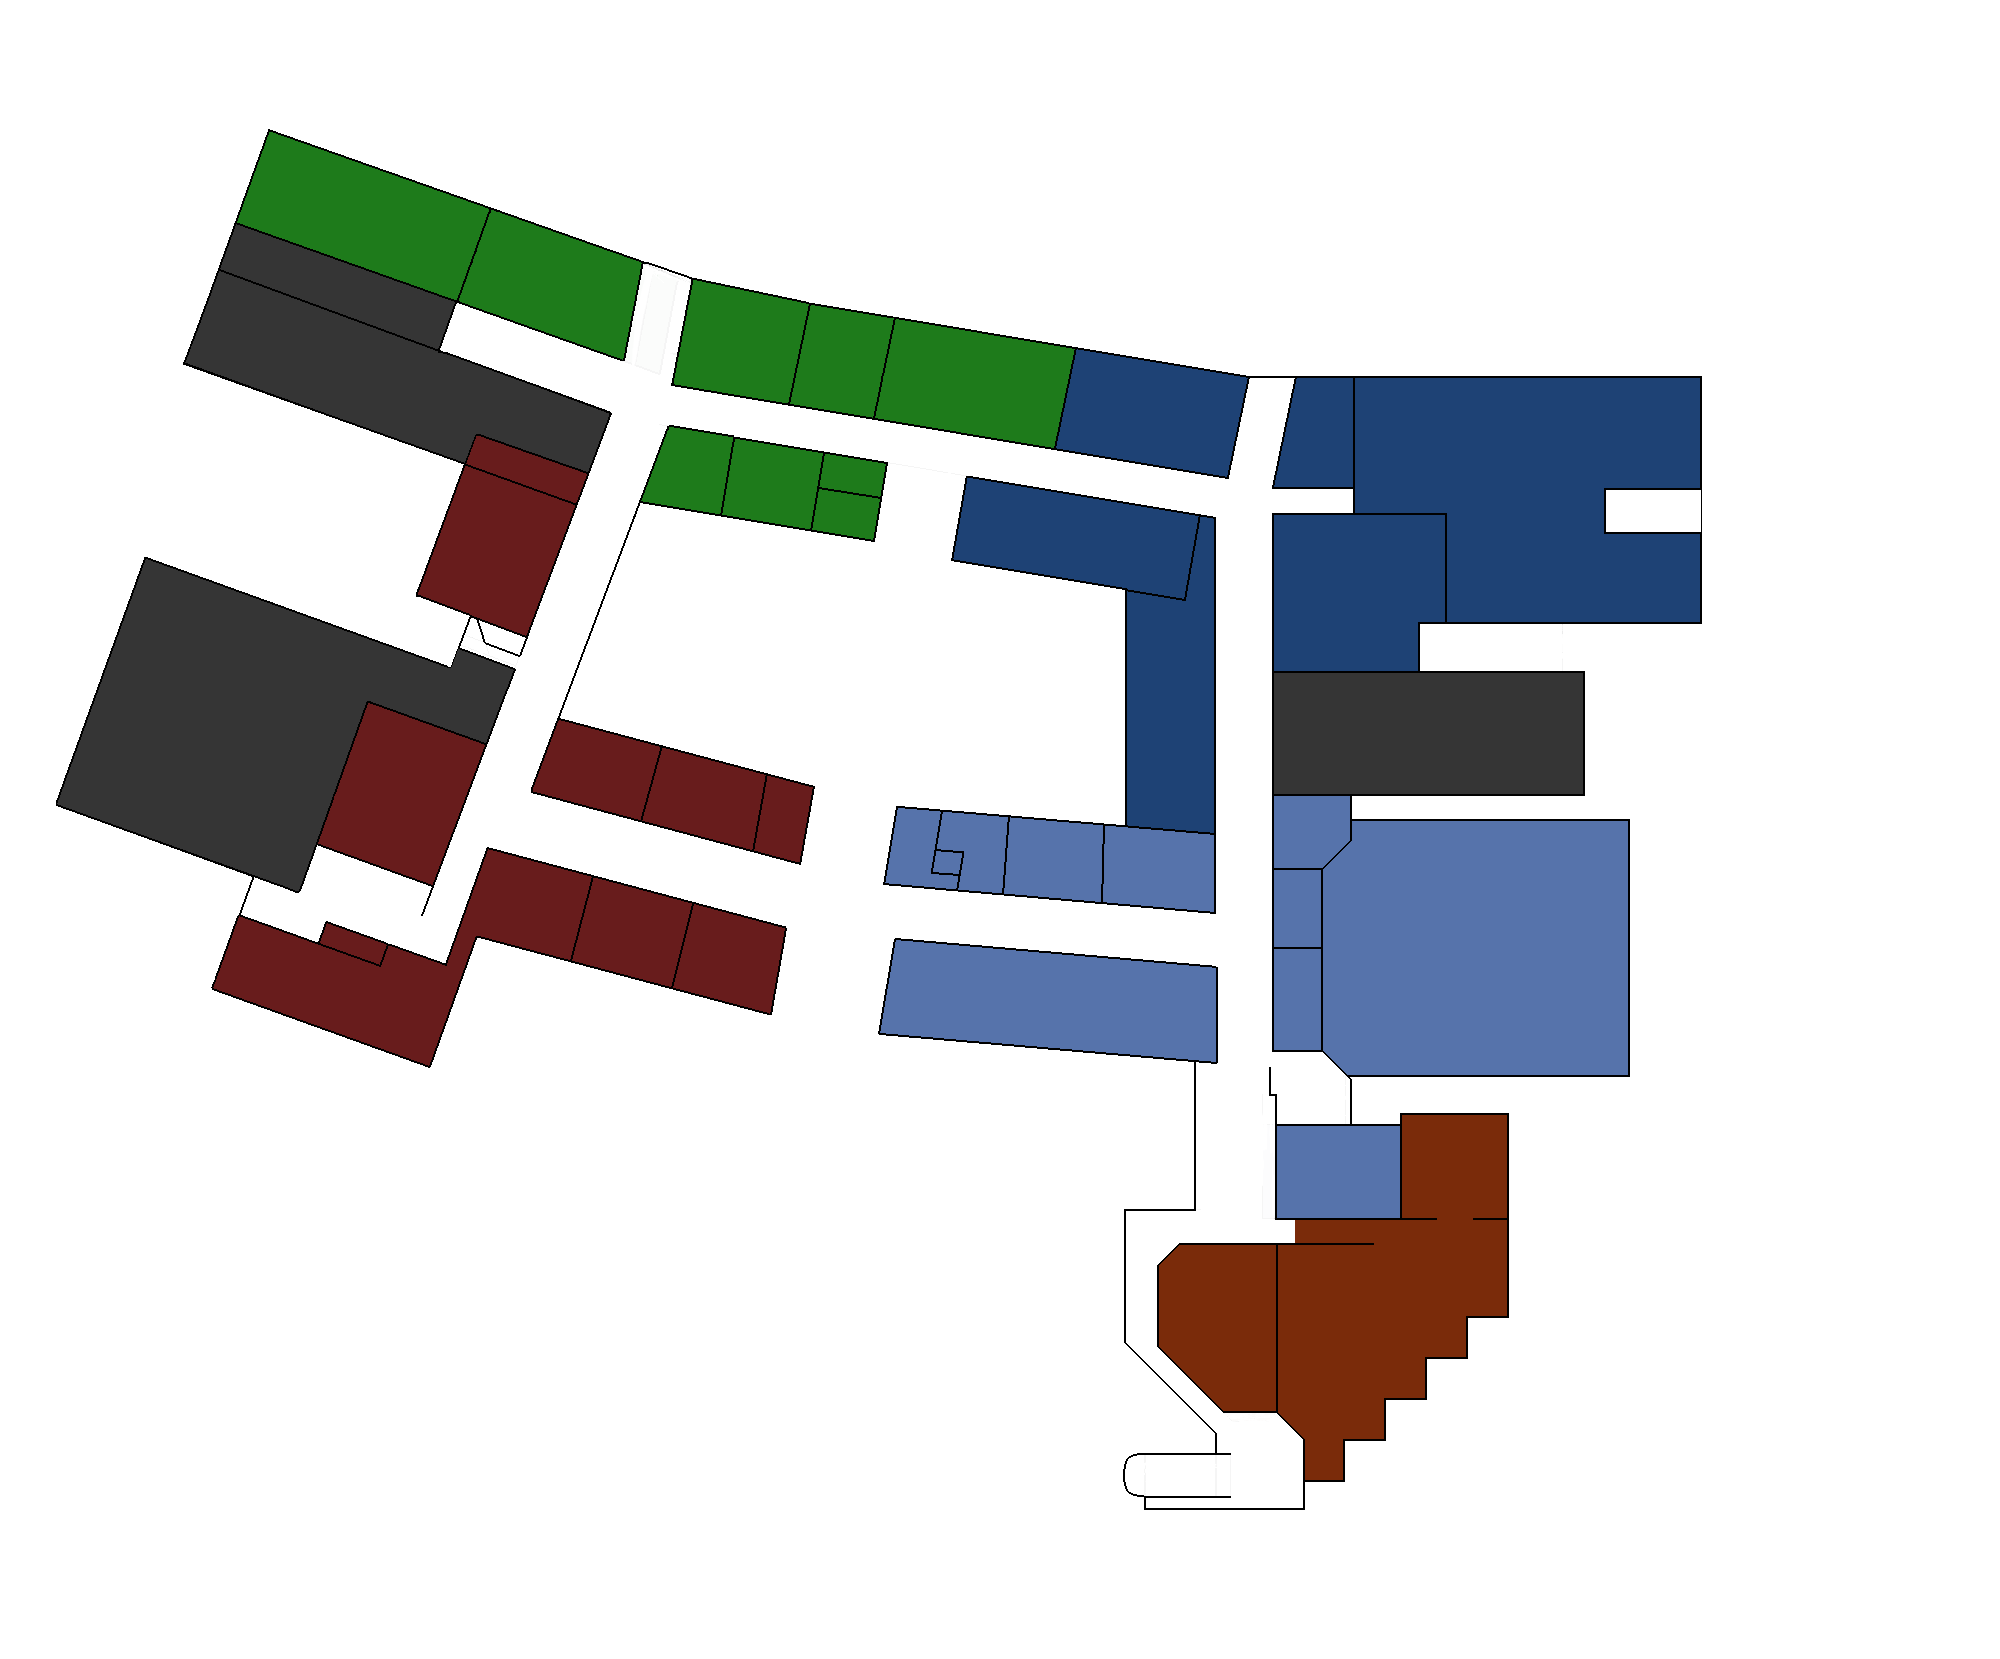
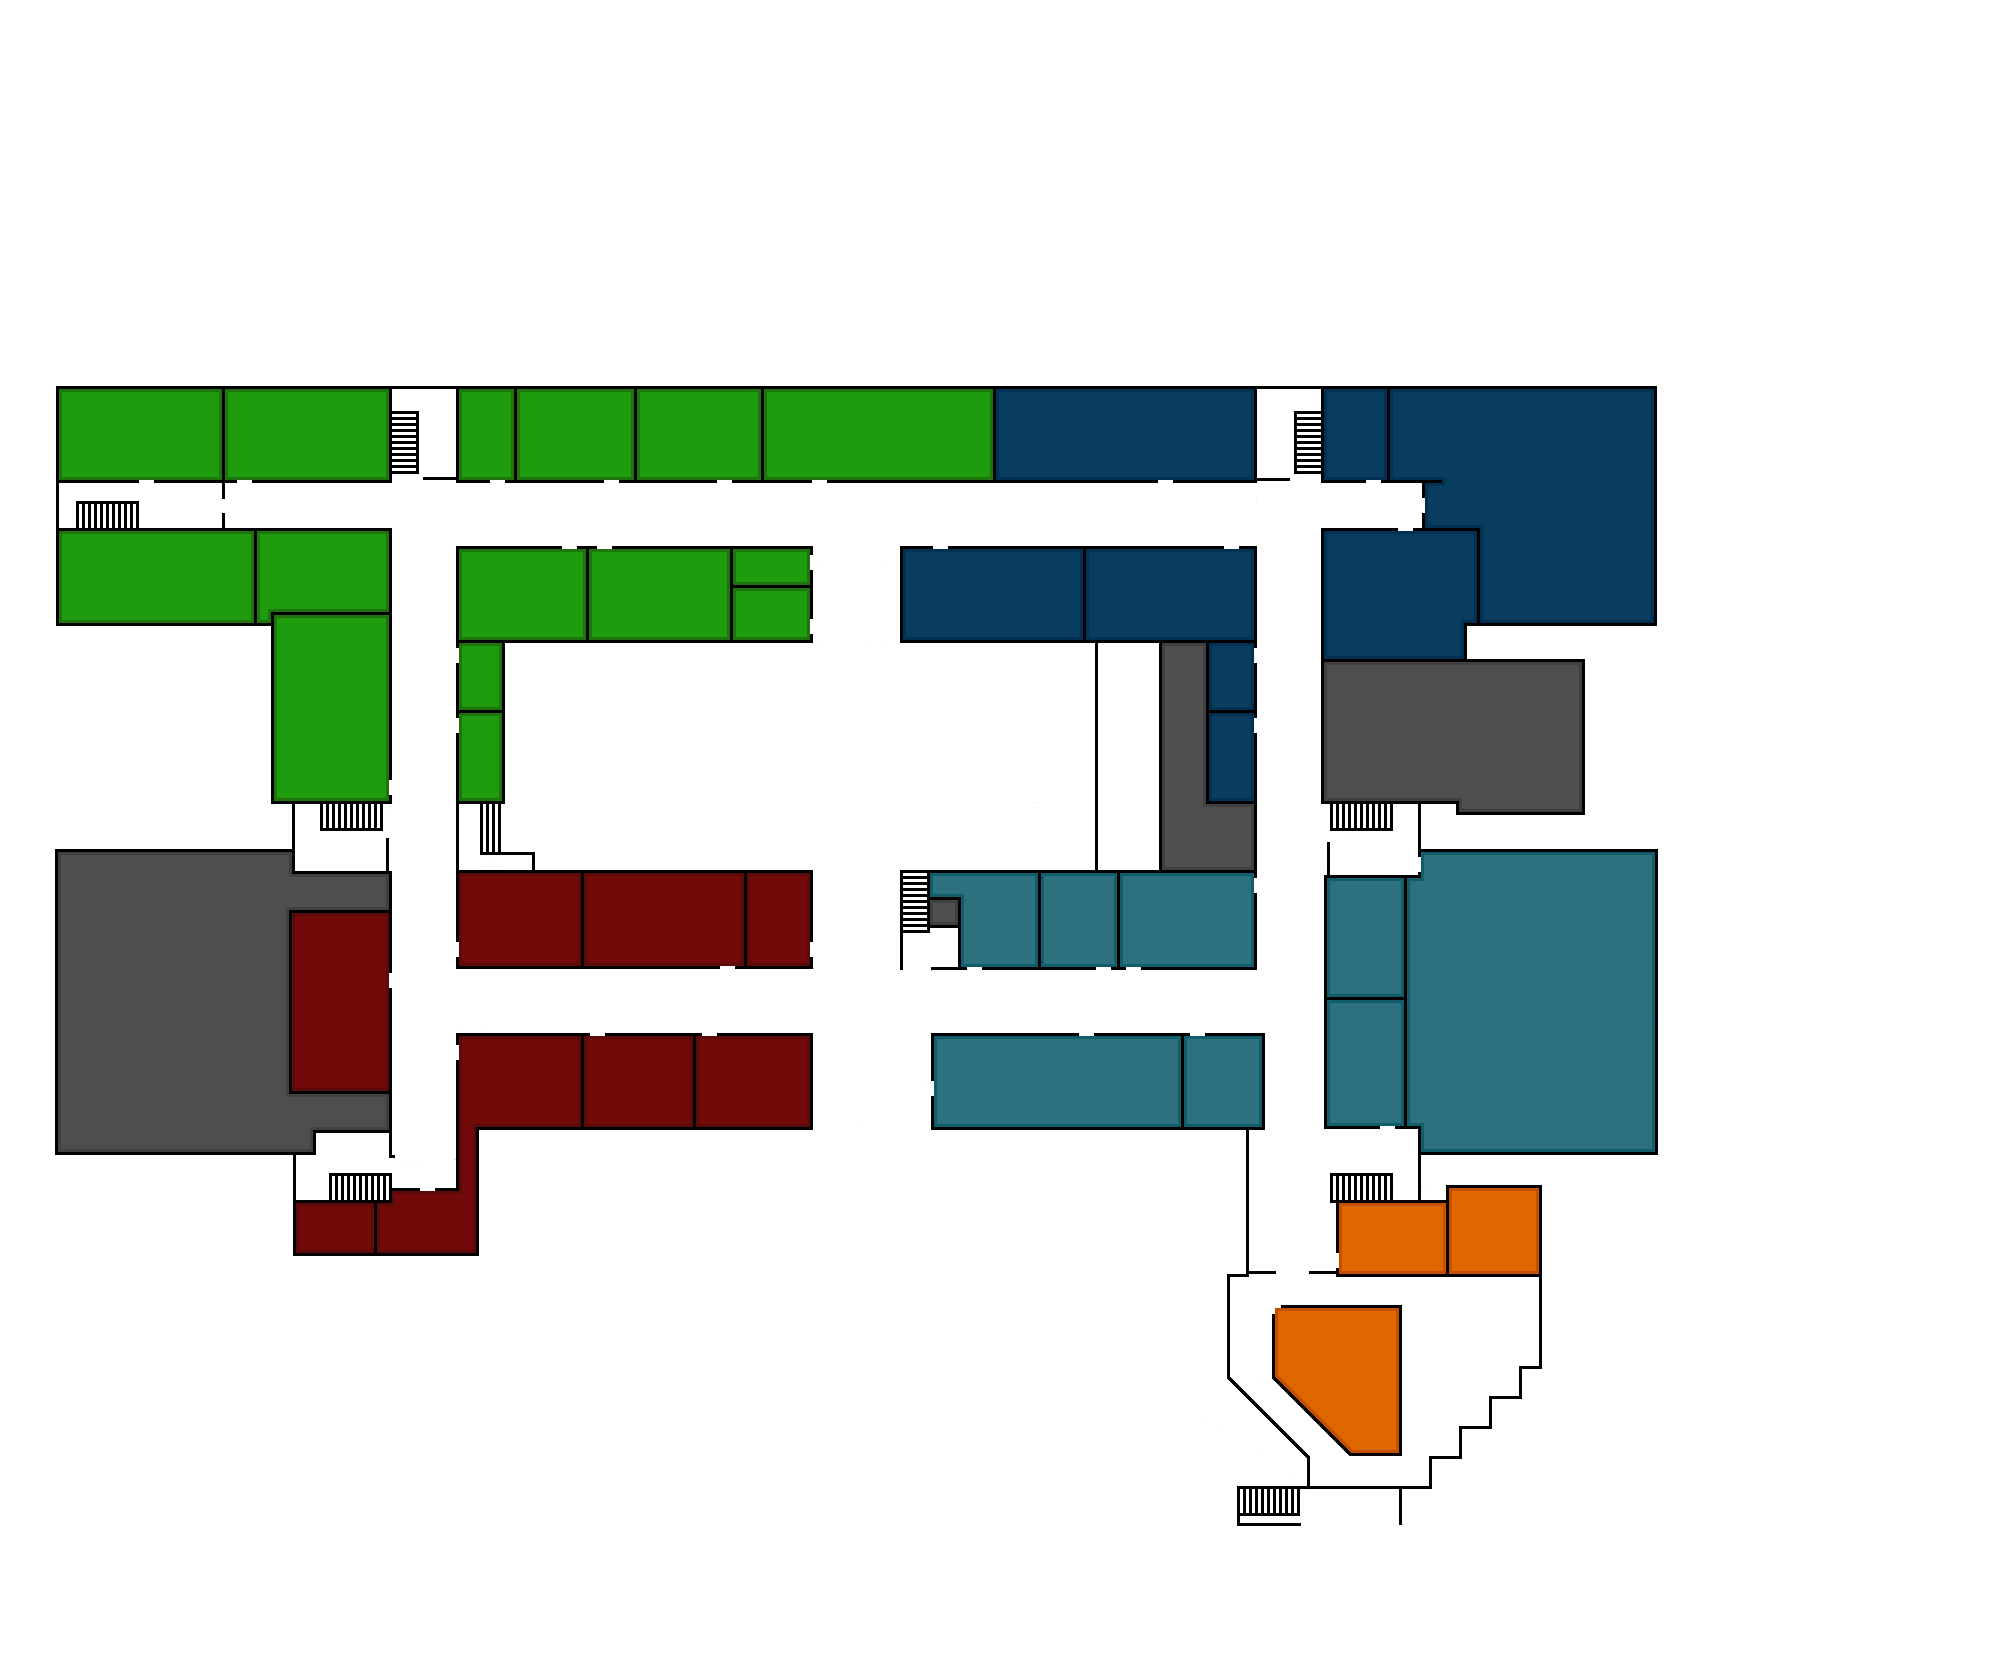
Updated 1st Floor Main map

diff --git a/Backend/Node_Config/Dev/nodes.py b/Backend/Node_Config/Dev/nodes.py
@@ -8,11 +8,11 @@ from Backend.Nodes.StairNode import StairNode
 from Backend.Nodes.StairwellNode import StairwellNode
 
 fc1 = CornerNode([], "1 Front Center 1st")
-fr1 = CornerNode([], "1 Front Right 1st", (1241, 940))
-fl1 = CornerNode([], "1 Front Left 1st", (497, 808))
+fr1 = CornerNode([], "1 Front Right 1st", (1288, 1001))
+fl1 = CornerNode([], "1 Front Left 1st", (422, 1001))
 bc1 = CornerNode([], "1 Back Center 1st")
-br1 = CornerNode([], "1 Back Right 1st", (1244, 498))
-bl1 = CornerNode([], "1 Back Left 1st", (643, 395))
+br1 = CornerNode([], "1 Back Right 1st", (1288, 512))
+bl1 = CornerNode([], "1 Back Left 1st", (422, 512))
 
 fc2 = CornerNode([], "2 Front Center 2nd")
 fr2 = CornerNode([], "2 Front Right 2nd", (1244, 938))
@@ -65,34 +65,34 @@ amt3 = CornerNode([], "3 Arts Building Middle Top 3rd")
 the_void = CornerNode([], "The endless void of nothingness and despair. "
                           "Nothing can enter, nothing can exit. Pure emptiness")
 
-stair1_f1 = StairNode([], "n", "1 Stair 1 1st Floor", (907, 886))
+stair1_f1 = StairNode([], "n", "1 Stair 1 1st Floor", (916, 968))
 stair1_f2 = StairNode([], "n", "2 Stair 1 2nd Floor", (907, 886))
 stair1_f3 = StairNode([], "n", "3 Stair 1 3rd Floor", (950, 886))
 stair1_f4 = StairNode([], "n", "4 Stair 1 4th Floor", (950, 886))
 
-stair2_f1 = StairNode([], "w", "1 Stair 2 1st Floor", (418, 930))
+stair2_f1 = StairNode([], "w", "1 Stair 2 1st Floor", (394, 1171))
 stair2_f2 = StairNode([], "w", "2 Stair 2 2nd Floor", (418, 930))
 stair2_f3 = StairNode([], "w", "3 Stair 2 3rd Floor", (418, 930))
 stair2_f4 = StairNode([], "w", "4 Stair 2 4th Floor", (418, 930))
 stair2_f5 = StairNode([], "w", "5 Stair 2 5th Floor", (418, 930))
 
-stair3_f1 = StairNode([], "w", "1 Stair 3 1st Floor", (517, 662))
+stair3_f1 = StairNode([], "w", "1 Stair 3 1st Floor", (389, 821))
 stair3_f2 = StairNode([], "w", "2 Stair 3 2nd Floor", (527, 662))
 stair3_f3 = StairNode([], "w", "3 Stair 3 3rd Floor", (507, 694))
 stair3_f4 = StairNode([], "w", "4 Stair 3 4th Floor", (507, 694))
 
-stair5_f1 = StairNode([], "n", "1 Stair 5 1st Floor", (642, 312))
+stair5_f1 = StairNode([], "n", "1 Stair 5 1st Floor", (407, 477))
 stair5_f2 = StairNode([], "n", "2 Stair 5 2nd Floor", (651, 344))
 
-stair6_f1 = StairNode([], "n", "1 Stair 6 1st Floor", (1274, 422))
+stair6_f1 = StairNode([], "n", "1 Stair 6 1st Floor", (1305, 479))
 stair6_f2 = StairNode([], "n", "2 Stair 6 2nd Floor", (1255, 449))
 
-stair8_f1 = StairNode([], "e", "1 Stair 8 1st Floor", (1272, 848))
+stair8_f1 = StairNode([], "e", "1 Stair 8 1st Floor", (1324, 820))
 stair8_f2 = StairNode([], "e", "2 Stair 8 2nd Floor", (1272, 848))
 stair8_f3 = StairNode([], "e", "3 Stair 8 3rd Floor", (1273, 848))
 stair8_f4 = StairNode([], "e", "4 Stair 8 4th Floor", (1273, 848))
 
-stair9_f1 = StairNode([], "e", "1 Stair 9 1st Floor", (1272, 1058))
+stair9_f1 = StairNode([], "e", "1 Stair 9 1st Floor", (1324, 1186))
 stair9_f2 = StairNode([], "e", "2 Stair 9 2nd Floor", (1272, 1058))
 stair9_f3 = StairNode([], "e", "3 Stair 9 3rd Floor", (1272, 1058))
 stair9_f4 = StairNode([], "e", "4 Stair 9 4th Floor", (1272, 1058))
@@ -114,34 +114,33 @@ stair17_f2 = StairNode([], "e", "2 Stair 17 2nd Floor", (1451, 1325))
 stair17_f3 = StairNode([], "e", "3 Stair 17 3rd Floor")
 
 # 1st Floor
-room_1108 = DoorNode([], 0, the_void, 'e', (511, 857))
-room_1105 = DoorNode([], 0, the_void, 's', (676, 964))
-room_1102 = DoorNode([], 0, the_void, 's', (813, 964))
-room_1401 = DoorNode([], 0, the_void, 'n', (1136, 885))
-room_1402 = DoorNode([], 0, the_void, 's', (1280, 965))
-room_1409 = DoorNode([], 0, the_void, 'n', (1300, 888))
-room_1202 = DoorNode([], 0, the_void, 'w', (435, 676))
-
-room_1225 = DoorNode([], 0, the_void, 'n', (859, 416))
-room_1228 = DoorNode([], 0, the_void, 'n', (926, 428))
-room_1223 = DoorNode([], 0, the_void, 's', (719, 433))
-room_1311 = DoorNode([], 0, the_void, 's', (1060, 491))
-room_1312 = DoorNode([], 0, the_void, 'n', (1170, 468))
-room_1107 = DoorNode([], 0, the_void, 'e', (481, 864))
-room_1109 = DoorNode([], 0, the_void, 's', (426, 956))
-room_1106 = DoorNode([], 0, the_void, 'n', (743, 849))
-room_1410 = DoorNode([], 0, the_void, 'n', (1116, 903))
-room_1420 = DoorNode([], 0, the_void, 'e', (1276, 1210))
-room_1309 = DoorNode([], 0, the_void, 'n', (1326, 488))
-room_1224 = DoorNode([], 0, the_void, 's')
-room_1303 = DoorNode([], 0, the_void, 's', (1294, 514))
-room_1307 = DoorNode([], 0, the_void, 'n', (1414, 487))
-room_1305 = DoorNode([], 0, the_void, 's', (1511, 513))
-room_1221 = DoorNode([], 0, the_void, 'n', (466, 306))
-room_1203 = DoorNode([], 0, the_void, 's', (446, 352))
+room_1108 = DoorNode([], 0, the_void, 'e', (457, 949))
+room_1105 = DoorNode([], 0, the_void, 's', (597, 1034))
+room_1102 = DoorNode([], 0, the_void, 's', (709, 1034))
+room_1401 = DoorNode([], 0, the_void, 'n', (974, 968))
+room_1402 = DoorNode([], 0, the_void, 's', (1086, 1034))
+room_1409 = DoorNode([], 0, the_void, 'n', (1103, 968))
+room_1202 = DoorNode([], 0, the_void, 'w', (390, 787))
+room_1225 = DoorNode([], 0, the_void, 'n', (724, 481))
+room_1228 = DoorNode([], 0, the_void, 'n', (820, 481))
+room_1223 = DoorNode([], 0, the_void, 's', (569, 547))  # Resume here
+room_1311 = DoorNode([], 0, the_void, 's', (940, 547))
+room_1312 = DoorNode([], 0, the_void, 'n', (1165, 481))
+room_1107 = DoorNode([], 0, the_void, 'e', (457, 1052))
+room_1109 = DoorNode([], 0, the_void, 's', (427, 1189))
+room_1106 = DoorNode([], 0, the_void, 'n', (728, 967))
+room_1410 = DoorNode([], 0, the_void, 'n', (1133, 968))
+room_1420 = DoorNode([], 0, the_void, 'e', (1337, 1260))
+room_1309 = DoorNode([], 0, the_void, 'n', (1373, 481))
+room_1224 = DoorNode([], 0, the_void, 's', (604, 547))
+room_1303 = DoorNode([], 0, the_void, 's', (1405, 529))
+room_1307 = DoorNode([], 0, the_void, 'n', (1423, 506))
+room_1305 = DoorNode([], 0, the_void, 's', (1423, 506))
+room_1221 = DoorNode([], 0, the_void, 'n', (245, 481))
+room_1203 = DoorNode([], 0, the_void, 's', (270, 529))
 room_1226 = DoorNode([], 0, the_void, 'w')
 room_1227 = DoorNode([], 0, the_void, 'w')
-room_1204 = DoorNode([], 0, the_void, 'w', (449, 320))
+room_1204 = DoorNode([], 0, the_void, 'w', (223, 506))
 
 # Testing
 room_1234 = DoorNode([], 0, the_void, "e")
